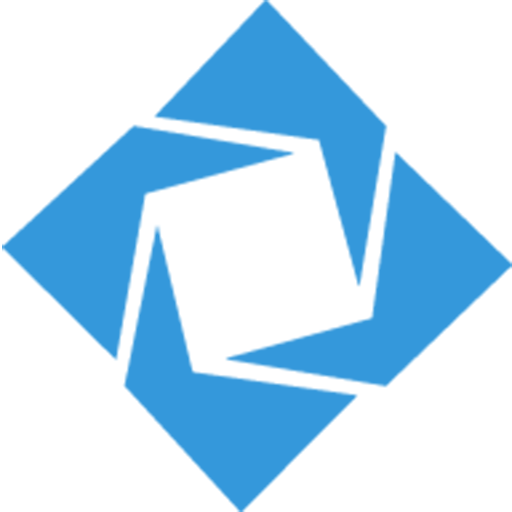
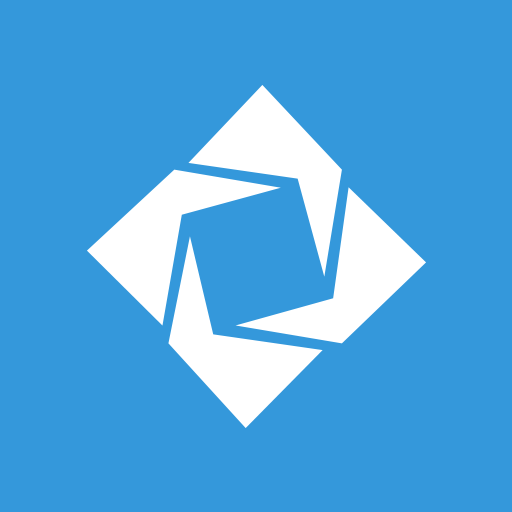
Deploy tiagoporto/gerador-validador-cpf to github.com/tiagoporto/gerador-validador-cpf.git:gh-pages

diff --git a/service-worker.js b/service-worker.js
@@ -1,1 +1,1 @@
-if(!self.define){const e=e=>{"require"!==e&&(e+=".js");let d=Promise.resolve();return i[e]||(d=new Promise(async d=>{if("document"in self){const i=document.createElement("script");i.src=e,document.head.appendChild(i),i.onload=d}else importScripts(e),d()})),d.then(()=>{if(!i[e])throw new Error(`Module ${e} didn’t register its module`);return i[e]})},d=(d,i)=>{Promise.all(d.map(e)).then(e=>i(1===e.length?e[0]:e))},i={require:Promise.resolve(d)};self.define=(d,c,r)=>{i[d]||(i[d]=Promise.resolve().then(()=>{let i={};const f={uri:location.origin+d.slice(1)};return Promise.all(c.map(d=>{switch(d){case"exports":return i;case"module":return f;default:return e(d)}})).then(e=>{const d=r(...e);return i.default||(i.default=d),i})}))}}define("./service-worker.js",["./workbox-468c4d03"],(function(e){"use strict";e.skipWaiting(),e.clientsClaim(),e.precacheAndRoute([{url:"0.2001827ab51ea35c16d9.bundle.js",revision:"8fa5e47333a6341066c0b995a0d6c19c"},{url:"5.c0a31fc70b2dd1648103.bundle.js",revision:"3d44c8fdec5fb016ff1b3d31cee9eb10"},{url:"favicon.ico",revision:"4ff338a0cf47ad664a89ed3e900f17a5"},{url:"img/47d5e02832a083558ddd7c5ef8baae02.svg",revision:"1364c01051f21b1d83b7d018d8c44ccb"},{url:"img/96860fdd2f001e8edad5e0bdc5f71b7c.png",revision:"386a62f05bc173ef503483ec29bfdca8"},{url:"img/9e589c8265f399fca2e50b0220cb8c21.svg",revision:"786d89b5e65cca29ceefa320c415aa16"},{url:"img/b82e870a12a8cbabd701bc6ef708cce5.svg",revision:"d8df5272dd47d8ecf390a6ef1a5a8aa7"},{url:"img/fa8f33d6d6e3997f9256f58e31a3b85b.svg",revision:"1a28f2a529887ea4b254be5f1e90b510"},{url:"img/github.svg",revision:"23fc8f81f92bb2981d8f9e089d7df14a"},{url:"img/like.svg",revision:"335eff6a0aefd9ce25d8624c9cae2f54"},{url:"img/logo.svg",revision:"f2d616b08f2bfbc2abf0c7e863299d0c"},{url:"img/touch/apple-touch-icon.png",revision:"44ca16b883ef85158697590679f370e5"},{url:"img/touch/chrome-touch-icon-192x192.png",revision:"3592d7c03eb7024ad5a3ae893aff7807"},{url:"img/touch/icon-128x128.png",revision:"8d79e83d57ab1745548eb2df1dfca230"},{url:"img/touch/icon-512x512.png",revision:"99821271d5e3c4bd0e4b1d54b5fc15b1"},{url:"img/touch/ms-touch-icon-144x144-precomposed.png",revision:"d2b7a871b393151d112f6ce6fabebd0f"},{url:"index.4494547c0624a6569529.js",revision:"c51e49f7bb685117387f5e97b45b9555"},{url:"index.ae660a9ec987cef811d7.css",revision:"5a9ec7362b27bd8a1fd89f4ffa396af5"},{url:"index.html",revision:"9a5ca89adc79b54b52cde866d96a71c5"},{url:"shared.6b495fa3c0867ba654c7.js",revision:"f0529449bdced778dd2ae1673f5a40bf"},{url:"site.webmanifest",revision:"0ad70d751b4df7653048141670eddda6"},{url:"vendors~index.13bb8a692b9df6f0f1f5.bundle.js",revision:"5b1e12014d76ba56a9a55ec1e8bfea3c"},{url:"vendors~index.9cd8424fc298dd8c11a6.css",revision:"ef42e471807d9a7208be654d7bc151bd"},{url:"vendors~index~shared.f8e544587fad1594ed66.bundle.js",revision:"2ac91e2820d1482eb5d5dfe075de8dab"}],{})}));
+if(!self.define){const e=e=>{"require"!==e&&(e+=".js");let c=Promise.resolve();return i[e]||(c=new Promise(async c=>{if("document"in self){const i=document.createElement("script");i.src=e,document.head.appendChild(i),i.onload=c}else importScripts(e),c()})),c.then(()=>{if(!i[e])throw new Error(`Module ${e} didn’t register its module`);return i[e]})},c=(c,i)=>{Promise.all(c.map(e)).then(e=>i(1===e.length?e[0]:e))},i={require:Promise.resolve(c)};self.define=(c,r,d)=>{i[c]||(i[c]=Promise.resolve().then(()=>{let i={};const f={uri:location.origin+c.slice(1)};return Promise.all(r.map(c=>{switch(c){case"exports":return i;case"module":return f;default:return e(c)}})).then(e=>{const c=d(...e);return i.default||(i.default=c),i})}))}}define("./service-worker.js",["./workbox-468c4d03"],(function(e){"use strict";e.skipWaiting(),e.clientsClaim(),e.precacheAndRoute([{url:"0.2001827ab51ea35c16d9.bundle.js",revision:"8fa5e47333a6341066c0b995a0d6c19c"},{url:"5.c0a31fc70b2dd1648103.bundle.js",revision:"3d44c8fdec5fb016ff1b3d31cee9eb10"},{url:"favicon.ico",revision:"4ff338a0cf47ad664a89ed3e900f17a5"},{url:"img/47d5e02832a083558ddd7c5ef8baae02.svg",revision:"1364c01051f21b1d83b7d018d8c44ccb"},{url:"img/96860fdd2f001e8edad5e0bdc5f71b7c.png",revision:"386a62f05bc173ef503483ec29bfdca8"},{url:"img/9e589c8265f399fca2e50b0220cb8c21.svg",revision:"786d89b5e65cca29ceefa320c415aa16"},{url:"img/b82e870a12a8cbabd701bc6ef708cce5.svg",revision:"d8df5272dd47d8ecf390a6ef1a5a8aa7"},{url:"img/fa8f33d6d6e3997f9256f58e31a3b85b.svg",revision:"1a28f2a529887ea4b254be5f1e90b510"},{url:"img/github.svg",revision:"23fc8f81f92bb2981d8f9e089d7df14a"},{url:"img/like.svg",revision:"335eff6a0aefd9ce25d8624c9cae2f54"},{url:"img/logo.svg",revision:"243ef162eab1c1945669972f1f16e840"},{url:"img/touch/apple-touch-icon.png",revision:"44ca16b883ef85158697590679f370e5"},{url:"img/touch/chrome-touch-icon-192x192.png",revision:"09e2bcdec5002f356327361c55bee4c3"},{url:"img/touch/icon-128x128.png",revision:"0a0256a8009590c91c60fd628aafd2cf"},{url:"img/touch/icon-512x512.png",revision:"52090f8f62b770165f1bdc431b2adc5b"},{url:"img/touch/ms-touch-icon-144x144-precomposed.png",revision:"d2b7a871b393151d112f6ce6fabebd0f"},{url:"index.4494547c0624a6569529.js",revision:"c51e49f7bb685117387f5e97b45b9555"},{url:"index.ae660a9ec987cef811d7.css",revision:"5a9ec7362b27bd8a1fd89f4ffa396af5"},{url:"index.html",revision:"7bae89aadb65ab9febb9612eb0003a88"},{url:"shared.6b495fa3c0867ba654c7.js",revision:"f0529449bdced778dd2ae1673f5a40bf"},{url:"site.webmanifest",revision:"4b6a0770cc7e9a50662e3b78c1a42b13"},{url:"vendors~index.13bb8a692b9df6f0f1f5.bundle.js",revision:"5b1e12014d76ba56a9a55ec1e8bfea3c"},{url:"vendors~index.9cd8424fc298dd8c11a6.css",revision:"ef42e471807d9a7208be654d7bc151bd"},{url:"vendors~index~shared.f8e544587fad1594ed66.bundle.js",revision:"2ac91e2820d1482eb5d5dfe075de8dab"}],{})}));

diff --git a/index.html b/index.html
@@ -1,1 +1,1 @@
-<!doctype html><html lang="pt-BR"><head><meta charset="utf-8"><meta http-equiv="x-ua-compatible" content="ie=edge"><title>Gerador e validador de CPF Open-Source | Tiago Porto</title><meta name="viewport" content="width=device-width,initial-scale=1"><link rel="manifest" href="site.webmanifest"><meta name="theme-color" content="#1b6496"><meta name="mobile-web-app-capable" content="yes"><link rel="icon" sizes="192x192" href="img/touch/chrome-touch-icon-192x192.png"><meta name="apple-mobile-web-app-capable" content="yes"><meta name="apple-mobile-web-app-status-bar-style" content="black-translucent"><meta name="apple-mobile-web-app-title" content="Gerador e validador de CPF Open-Source | Tiago Porto"><link rel="apple-touch-icon" href="img/touch/apple-touch-icon.png"><link href="https://fonts.googleapis.com/css2?family=Inter:wght@500&family=PT+Sans:wght@400;700&display=swap" rel="stylesheet"><meta name="description" content="Gerador e validador de CPF, biblioteca JS open-source para gerar e validar CPF."><meta name="keywords" content="cpf,gerar,gerador,generator,generates,validador,valida,validates,online"><link rel="shortcut icon" href="favicon.ico"><link href="vendors~index.9cd8424fc298dd8c11a6.css" rel="stylesheet"><link href="index.ae660a9ec987cef811d7.css" rel="stylesheet"></head><body><noscript>You need to enable JavaScript to run this app.</noscript><div id="root"></div><script src="vendors~index~shared.f8e544587fad1594ed66.bundle.js"></script><script src="vendors~index.13bb8a692b9df6f0f1f5.bundle.js"></script><script src="index.4494547c0624a6569529.js"></script><script src="shared.6b495fa3c0867ba654c7.js"></script></body></html>
+<!doctype html><html lang="pt-BR"><head><meta charset="utf-8"><meta http-equiv="x-ua-compatible" content="ie=edge"><title>Gerador e validador de CPF Open-Source | Tiago Porto</title><meta name="viewport" content="width=device-width,initial-scale=1"><link rel="manifest" href="site.webmanifest"><meta name="theme-color" content="#175681"><meta name="mobile-web-app-capable" content="yes"><link rel="icon" sizes="192x192" href="img/touch/chrome-touch-icon-192x192.png"><meta name="apple-mobile-web-app-capable" content="yes"><meta name="apple-mobile-web-app-status-bar-style" content="black-translucent"><meta name="apple-mobile-web-app-title" content="Gerador e validador de CPF Open-Source | Tiago Porto"><link rel="apple-touch-icon" href="img/touch/apple-touch-icon.png"><link href="https://fonts.googleapis.com/css2?family=Inter:wght@500&family=PT+Sans:wght@400;700&display=swap" rel="stylesheet"><meta name="description" content="Gerador e validador de CPF, biblioteca JS open-source para gerar e validar CPF."><meta name="keywords" content="cpf,gerar,gerador,generator,generates,validador,valida,validates,online"><link rel="shortcut icon" href="favicon.ico"><link href="vendors~index.9cd8424fc298dd8c11a6.css" rel="stylesheet"><link href="index.ae660a9ec987cef811d7.css" rel="stylesheet"></head><body><noscript>You need to enable JavaScript to run this app.</noscript><div id="root"></div><script src="vendors~index~shared.f8e544587fad1594ed66.bundle.js"></script><script src="vendors~index.13bb8a692b9df6f0f1f5.bundle.js"></script><script src="index.4494547c0624a6569529.js"></script><script src="shared.6b495fa3c0867ba654c7.js"></script></body></html>
